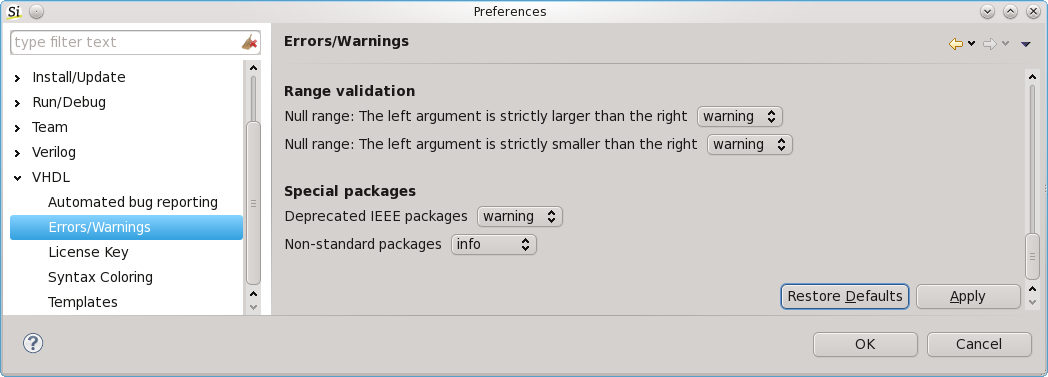
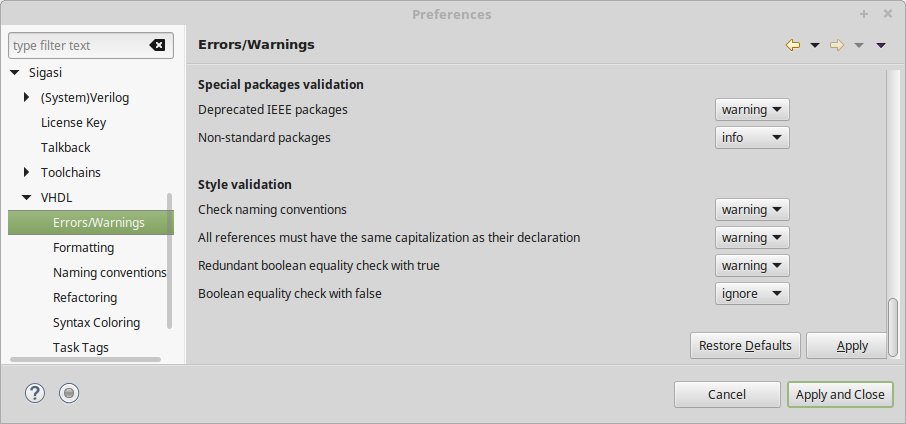
Updates after review

diff --git a/manual/linting.md b/manual/linting.md
@@ -62,11 +62,10 @@ The availability of code rules depends on the license requirements.
 | ST      | ![](icons/warning_lightbulb.png) | Declaration could not be found                                                                                          |     |
 | ST      |                                  | Duplicate declarations                                                                                                  |     |
 | ST      | ![](icons/warning_lightbulb.png) | Signal/variable assignment operator                                                                                     |     |
-| ST      | ![](icons/warning_lightbulb.png) | Missing when clause in case statements                                                                                  |     |
+| ST      | ![](icons/warning_lightbulb.png) | Case statement does not cover all choices                                                                               |     |
 | ST      | ![](icons/warning_lightbulb.png) | Missing enumeration literal in case statements                                                                          |     |
 | ST      |                                  | Instantiation statement validation                                                                                      |     |
 | ST      |                                  | Library validation                                                                                                      |     |
-| ST      |                                  | Advanced Configuration validation (component mismatch, missing binding, ...)                                            |     |
 | ST      |                                  | Subprograms in packages (e.g. function body in a package, rather than in the package body)                              |     |
 | ST      |                                  | Missing return statement in function bodies                                                                             |     |
 | ST      | ![](icons/warning_lightbulb.png) | Correct attribute entity class in attribute specifications                                                              |     |
@@ -86,6 +85,7 @@ The availability of code rules depends on the license requirements.
 | CR      |                                  | [Find superfluous signals in sensitivity lists](#sensitivity-list)                                                      |  73 |
 | CR      |                                  | Report encrypted files                                                                                                  |  84 |
 | CR      |                                  | [Find duplicate signals in sensitivity lists](#sensitivity-list)                                                        |  85 |
+| CR      |                                  | Incorrect use of keyword all                                                                                            | 184 |
 | XL      |                                  | [Null range: The left argument is strictly larger than the right](#null-range)                                          |   1 |
 | XL      |                                  | Case alternative contains redundant choices                                                                             |  12 |
 | XL      |                                  | [Case statement contains all choices explicitly. You can safely remove the redundant 'others'](#redundant-others)       |  13 |
@@ -96,6 +96,7 @@ The availability of code rules depends on the license requirements.
 | XL      |                                  | [Find dead code (unreachable statements)](#dead-code)                                                                   |  79 |
 | XL      |                                  | Detect signals and variables that are never written                                                                     |  88 |
 | XL      |                                  | Detect signals and variables that are never read                                                                        |  89 |
+| XL      |                                  | None or multiple matching entities for component                                                                        |  90 |
 | XL      |                                  | [Check naming conventions](#naming-conventions)                                                                         |  92 |
 | XL      | ![](icons/warning_lightbulb.png) | [Incomplete port map or generic map](#incomplete-port-maps-and-generic-maps)                                            |  94 |
 | XL      |                                  | [Vector width in assignments and port maps](#vector-width)                                                              | 144 |
@@ -103,6 +104,10 @@ The availability of code rules depends on the license requirements.
 | XL      | ![](icons/warning_lightbulb.png) | [Check for positional associations in instantiations](#positional-association-in-instantiations)                        | 164 |
 | XL      |                                  | Invalid port associations (incompatible port modes in instantiations)                                                   | 169 |
 | XL      | ![](icons/warning_lightbulb.png) | [Order of generic and port associations](#order-of-associations)                                                        | 177 |
+| XL      |                                  | Incorrect component name in configuration                                                                               | 180 |
+| XL      |                                  | Incorrect instantiation statement label in configuration                                                                | 181 |
+| XL      |                                  | Missing or incorrect binding indication                                                                                 | 182 |
+| XL      |                                  | Incorrect name in binding indication                                                                                    | 183 |
 | XL      |                                  | Redundant boolean equality check with true                                                                              | 185 |
 | XL      |                                  | Boolean equality check with false                                                                                       | 186 |
 | XL      | ![](icons/warning_lightbulb.png) | [Check for component/entity mismatch](#component-entity)                                                                | 187 |
@@ -317,6 +322,8 @@ you would specify `.*_v` pattern in the **Variable name** field.
 Sigasi Studio checks the vector size in assignments (Since [/releasenotes/sigasi-2.28]) and port maps (Since [/releasenotes/sigasi-3.01]). This check works at type-time and takes the (symbolic) value of generics into account.
 
 ![](images/linting_vector_width.png)
+
+Sigasi Studio will not take into account the value assigned to a generic in instantiations. The reasoning begind this is explained in [/tech/generic-port-width].
 
 ## Order of associations
 
